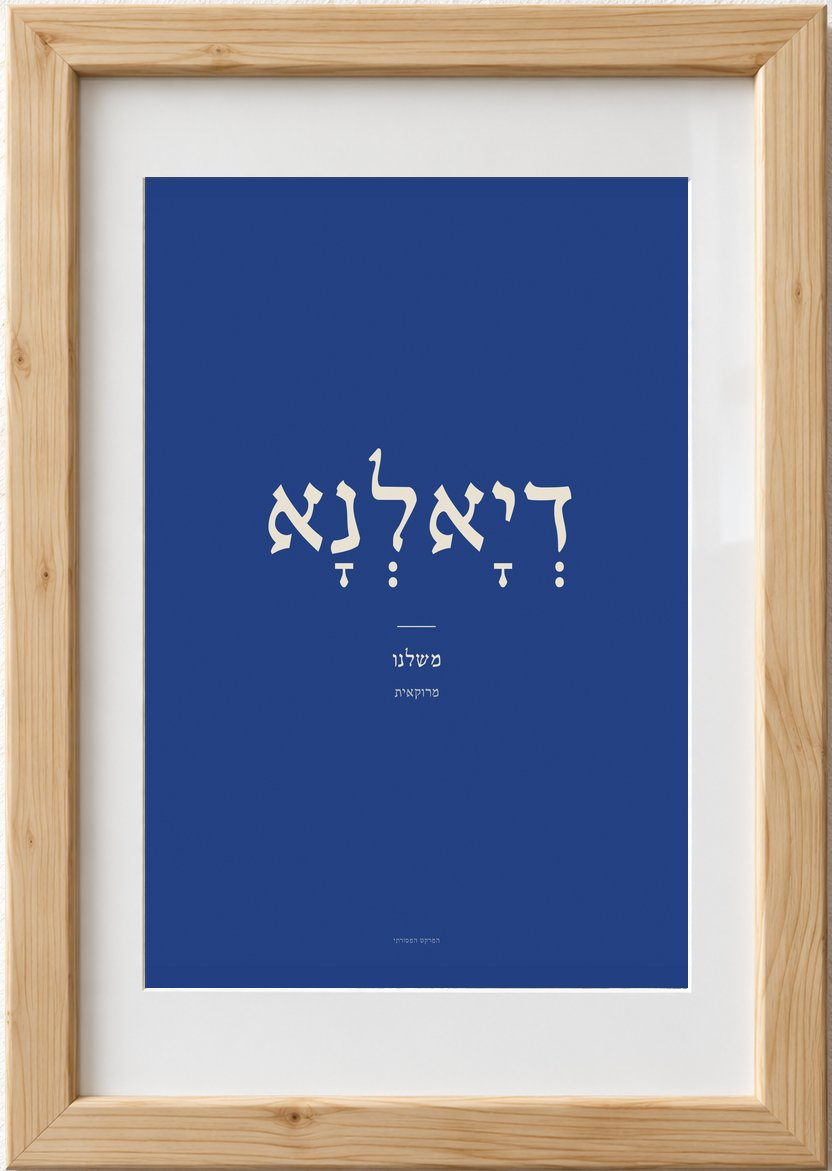
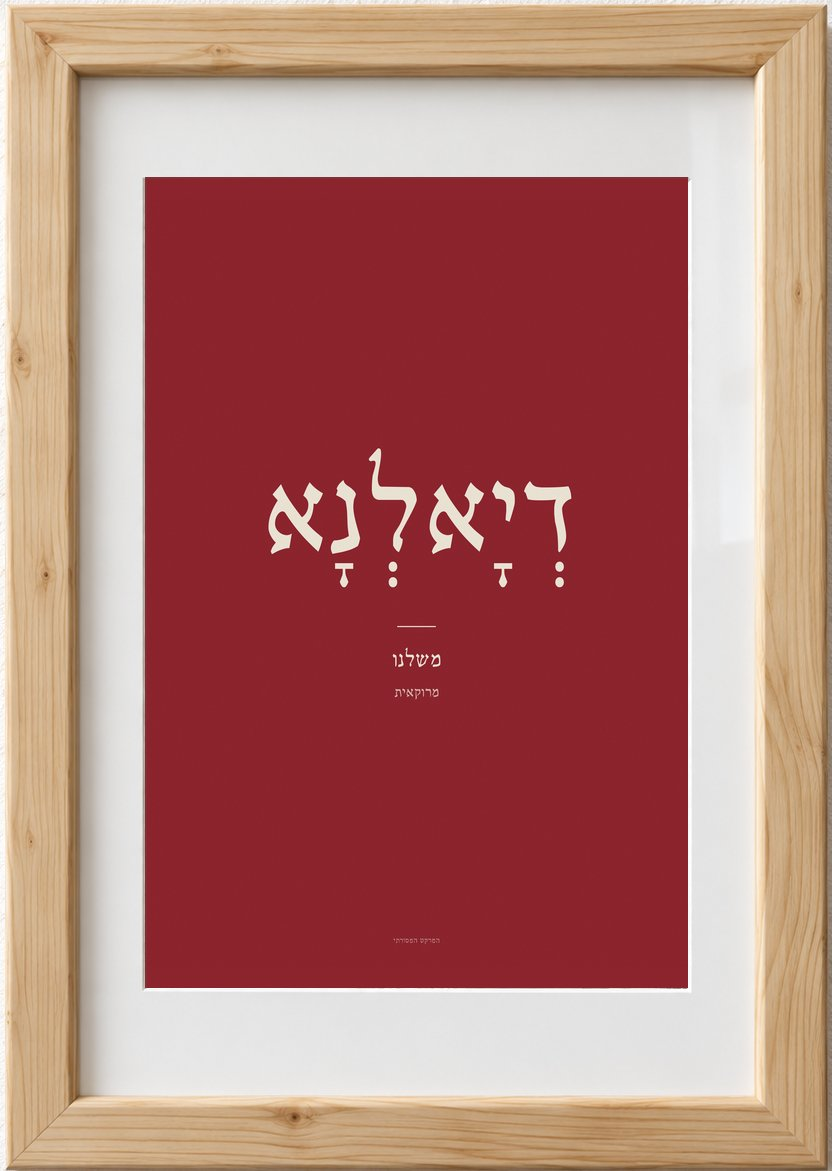
Shop: languages series in mixed colors, no same color side by side
Claude-Session: https://claude.ai/code/session_01QSLAfrMeBEq27mRa4tKpiz

diff --git a/shop/index.html b/shop/index.html
@@ -247,22 +247,22 @@ const P=[
    text:'"לאלה לערוסה", גבירתי הכלה. כך פונים לכלה בשירי החינה המרוקאית. בזוג עם מברוק לערוס.',s:'joy',def:'white'},
   {id:'p18',l:'יח',name:'נַעְבִּיבַּשְׁק',plain:'נעביבשק',sub:'מרוקאית · אקח את כאבך',by:'שפות מהבית',
    text:'מה שאמא אומרת כשכואב לך, ומתכוונת לזה.',s:'lang'},
-  {id:'p19',l:'יט',name:'דְיָאלְנָא',plain:'דיאלנא',sub:'מרוקאית · משלנו',by:'שפות מהבית',
-   text:'מי ששלנו, משלנו. בזוג עם מן חקנא, "משלנו" בתימנית.',s:'lang'},
-  {id:'p20',l:'כ',name:'בְּזָעַת',plain:'בזעת',sub:'מרוקאית · נו, הלאה',by:'שפות מהבית',
-   text:'כשנגמרה הסבלנות. בזוג עם שוין, "נו, הלאה" ביידיש.',s:'lang'},
   {id:'p21',l:'כא',name:'מִן חַקְּנָא',plain:'מן חקנא',sub:'תימנית · משלנו',by:'שפות מהבית',
    text:'"משלנו" בתימנית. בזוג עם דיאלנא.',s:'lang'},
   {id:'p22',l:'כב',name:'מֶענטש',plain:'מענטש',sub:'יידיש · גבר גבר',by:'שפות מהבית',
    text:'בן אדם ישר, שאפשר לסמוך עליו.',s:'lang'},
-  {id:'p23',l:'כג',name:'שוֹין',plain:'שוין',sub:'יידיש · נו, הלאה',by:'שפות מהבית',
-   text:'"נו, הלאה" ביידיש. בזוג עם בזעת.',s:'lang'},
   {id:'p24',l:'כד',name:'ג׳וּנַם',plain:'ג׳ונם',sub:'פרסית · הנשמה שלי',by:'שפות מהבית',
    text:'מה שאומרים בחום למי שאוהבים.',s:'lang'},
+  {id:'p19',l:'יט',name:'דְיָאלְנָא',plain:'דיאלנא',sub:'מרוקאית · משלנו',by:'שפות מהבית',
+   text:'מי ששלנו, משלנו. בזוג עם מן חקנא, "משלנו" בתימנית.',s:'lang'},
   {id:'p25',l:'כה',name:'עַלָא רָאסִי',plain:'עלא ראסי',sub:'עיראקית · בשמחה, על הראש שלי',by:'שפות מהבית',
-   text:'"על הראש שלי". כשמבקשים ממך משהו ואת עונה: בשמחה, עליי.',s:'lang'}
+   text:'"על הראש שלי". כשמבקשים ממך משהו ואת עונה: בשמחה, עליי.',s:'lang'},
+  {id:'p23',l:'כג',name:'שוֹין',plain:'שוין',sub:'יידיש · נו, הלאה',by:'שפות מהבית',
+   text:'"נו, הלאה" ביידיש. בזוג עם בזעת.',s:'lang'},
+  {id:'p20',l:'כ',name:'בְּזָעַת',plain:'בזעת',sub:'מרוקאית · נו, הלאה',by:'שפות מהבית',
+   text:'כשנגמרה הסבלנות. בזוג עם שוין, "נו, הלאה" ביידיש.',s:'lang'}
 ];
-const IMGV=1115;
+const IMGV=1116;
 const img=(id,c)=>`img/${id}-${c}.jpg?v=${IMGV}`;
 // צבע + צבע
 const SET_PRICE={a:449,b:549,sq:449}; // לעדכון
@@ -323,7 +323,7 @@ function shop(){
     <div class="grid">${P.filter(p=>p.s==='joy').map(card).join('')}</div>
   </section>
   <section class="wrap sec" id="lang" style="padding-top:0">
-    <div class="sec-h"><h2>שפות מהבית</h2><p>מילה אחת מכל בית · כל שפה בצבע שלה</p></div>
+    <div class="sec-h"><h2>שפות מהבית</h2><p>מילה אחת מכל בית, בצבעים</p></div>
     <div class="grid">${P.filter(p=>p.s==='lang').map(card).join('')}</div>
   </section>
   <section class="wrap sec" id="kids" style="padding-top:0">
